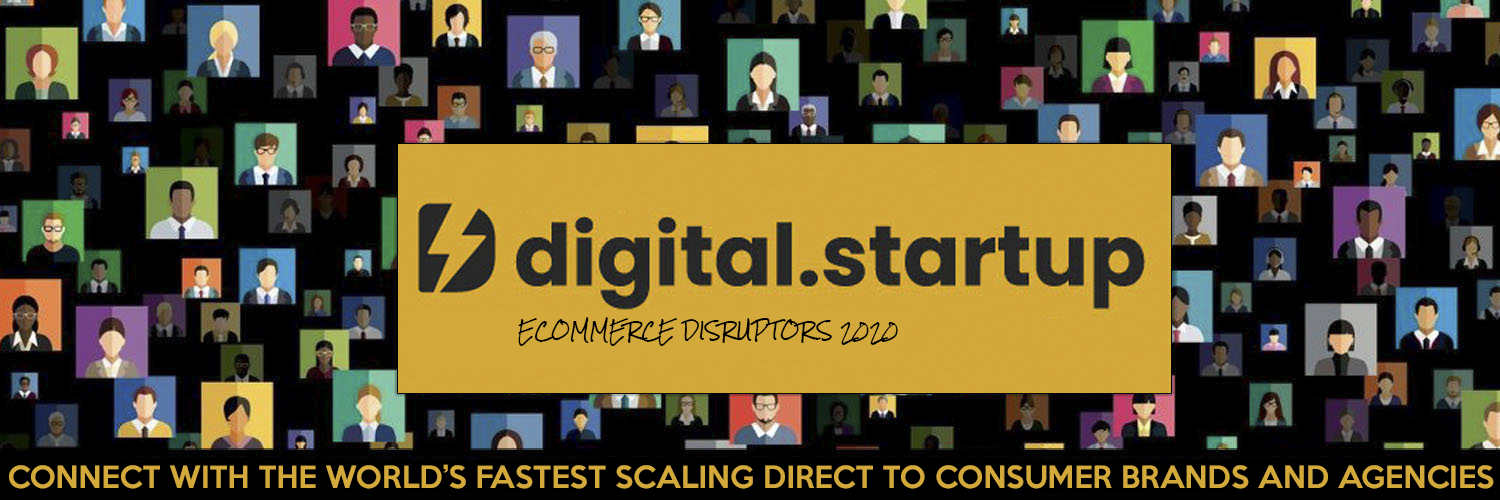
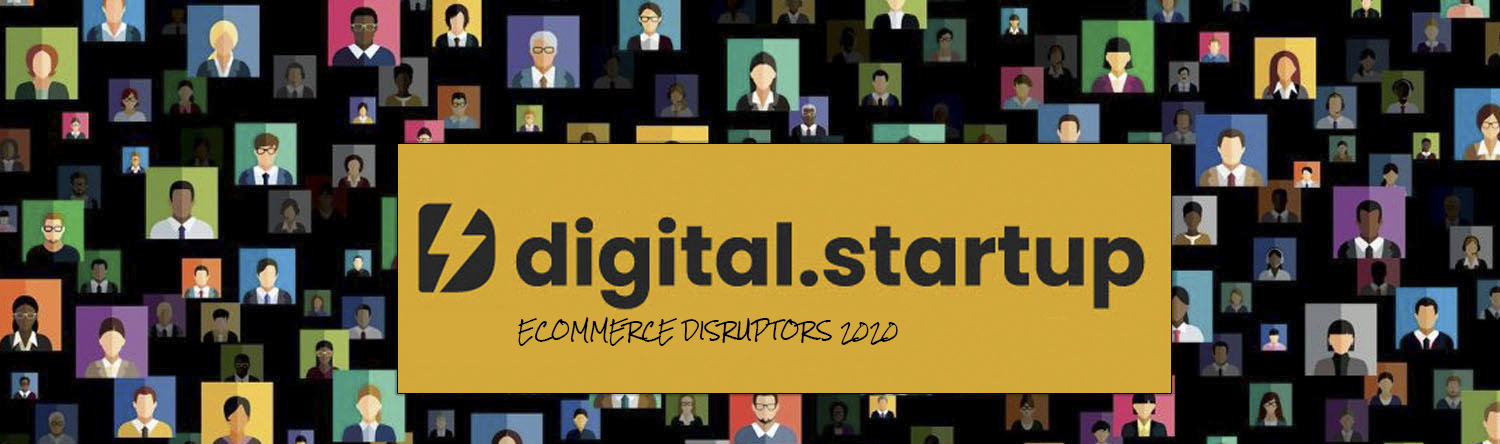
waseem changes

diff --git a/digital-startup.html b/digital-startup.html
@@ -23,7 +23,7 @@
         <nav class="navbar navbar-expand-md navbar-dark fixed-top" id="banner">
             <div class="container max-wd-1380">
                 <!-- Brand -->
-                <a class="navbar-brand logo" href="/"><span><img src="./assets/images/iPhone X-XS-11 Pro – 1@2x.png"
+                <a class="navbar-brand logo" href="/"><span><img src="./assets/images/ds-logo.png"
                             alt="logo"></span></a>
 
                 <!-- Toggler/collapsibe Button -->
@@ -35,26 +35,14 @@
                 <div class="collapse navbar-collapse" id="collapsibleNavbar">
                     <ul class="navbar-nav ml-auto">
                         <li class="nav-item dropdown">
-                            <a class="nav-link dropdown-toggle" href="/why-attend" data-toggle="dropdown">
+                            <a class="nav-link" href="#">
                                 <span class="border-bottom">Schedule</span>
                             </a>
-                            <div class="dropdown-menu">
-                                <a class="dropdown-item" href="/affiliates-media-buyers">Affiliates and Media Buyers</a>
-                                <a class="dropdown-item" href="/product-owner">Product Owner</a>
-                                <a class="dropdown-item" href="/agencies">Agencies</a>
-                                <a class="dropdown-item" href="/executives-enterprises">Executives</a>
-                                <a class="dropdown-item" href="/offline-stores">Offline Stores</a>
-                            </div>
                         </li>
                         <li class="nav-item dropdown">
-                            <a class="nav-link dropdown-toggle" href="#" data-toggle="dropdown">
+                            <a class="nav-link" href="#">
                                 <span class="border-bottom">Speakers</span>
                             </a>
-                            <div class="dropdown-menu">
-                                <a class="dropdown-item" href="#section-3">Overview Speakers</a>
-                                <a class="dropdown-item" href="/become-speaker/apply-for-speaker.php">Apply for
-                                    Speakers</a>
-                            </div>
                         </li>
                         <li class="nav-item">
                             <a class="nav-link" href="/schedule"><span class="border-bottom">Session</span></a>
@@ -75,13 +63,17 @@
         <main>
             <!-- Container (Hero Section)  -->
             <section id="section-1">
-                <div class="container" id="hero_email_form">
-                    <div class="text-white text-center col-md-12" style="transform: translateY(75px);">
+               
+            </section>
+            
+            <section style="background: #000;">
+                <div class="container-fluid" id="hero_email_form">
+                    <div class="text-white text-center col-md-12" >
 
                         <!-- TODO: display none /custom logo box -->
                         <div class="mx-auto dp-n" style="height: auto;padding: 10px;background: #ECBA16;width: 60%;">
                             <span><img class="w-100" src="./assets/images/iPhone X-XS-11 Pro – 1@2x.png"
-                                    alt="logo"></span>
+                                       alt="logo"></span>
 
                             <p class="px-5 mx-auto" style="background-color: white; color: black; width: fit-content">
                                 ECOMMERCE DISRUPTORS 2020
@@ -90,30 +82,30 @@
                         <!-- End display none /custom logo box -->
 
 
-                        <p class="mt-3 mb-2 px-5 py-2 mx-auto font-weight-bold header-description">
-                            “Connect with the World’s Fastest Scaling Direct to Consumer Brands and Agencies”
+                        <p class="mt-0 mb-0 yellow-text w-100 py-2 mx-auto font-weight-bold header-description">
+                            Connect with the World’s Fastest Scaling Direct to Consumer Brands and Agencies
                         </p>
 
                         <div class="timer-section mx-auto px-5">
                             <div class="d-flex justify-content-center" id="timer">
-                                <div class="ml-2">
-                                    <div class="timer-heading">DAYS</div>
+                                <div class="ml-2 timer-box">
                                     <div class="timer-value" id="days">00</div>
+                                    <div class="timer-heading">DAYS</div>
                                 </div>
 
-                                <div class="ml-2">
-                                    <div class="timer-heading">HOURS</div>
+                                <div class="ml-2 timer-box">
                                     <div class="timer-value" id="hours">00</div>
+                                    <div class="timer-heading">HOURS</div>
                                 </div>
 
-                                <div class="ml-2">
-                                    <div class="timer-heading">MINUTES</div>
+                                <div class="ml-2 timer-box">
                                     <div class="timer-value" id="minutes">00</div>
+                                    <div class="timer-heading">MINUTES</div>
                                 </div>
 
-                                <div class="ml-2">
-                                    <div class="timer-heading">SECONDS</div>
+                                <div class="ml-2 timer-box">
                                     <div class="timer-value" id="seconds">00</div>
+                                    <div class="timer-heading">SECONDS</div>
                                 </div>
                             </div>
 
@@ -146,7 +138,7 @@
                     <div class="d-flex justify-content-center pt-2 pb-5 access-now-button">
 
                         <button class="blck-color solid-btn large-btn my-2 rounded px-4" type="submit">
-                            <a href="../partners/become-partner.php" class="mail-link">Get Free AccessNow </a>
+                            <a href="../partners/become-partner.php" class="mail-link">Get Free Access Now </a>
                         </button>
 
                     </div>
@@ -309,7 +301,7 @@
                     <div class="d-flex justify-content-center pt-2 pb-5 access-now-button">
 
                         <button class="blck-color solid-btn large-btn my-2 rounded px-4" type="submit">
-                            <a href="../partners/become-partner.php" class="mail-link">Get Free AccessNow </a>
+                            <a href="../partners/become-partner.php" class="mail-link">Get Free Access Now </a>
                         </button>
 
                     </div>
@@ -337,6 +329,117 @@
                     </p>
                 </div>
 
+
+                <div class="container">
+                    <div class="topics-card-container max-wd-1380">
+                        <div class="row m-0">
+                            <div class="col-6 col-md-3 px-md-3 px-2 pt-4">
+                                <div class="card shadow-border">
+                                    <div class="card-body">
+                                        <h5 class="card-title text-center bold font-weight-bold">Product vision</h5>
+                                        <div class="topic-image mx-auto my-2">
+                                            <img src="./assets/images/topics-icon-ecommerce.png" class="card-img-top"
+                                                 alt="...">
+                                        </div>
+
+                                    </div>
+                                </div>
+                            </div>
+                            <div class="col-6 col-md-3 px-md-3 px-2 pt-4">
+                                <div class="card shadow-border">
+                                    <div class="card-body">
+                                        <h5 class="card-title text-center bold font-weight-bold">Product Sourcing</h5>
+                                        <div class="topic-image mx-auto my-2">
+                                            <img src="./assets/images/topics-icon-traffic.png" class="card-img-top"
+                                                 alt="...">
+                                        </div>
+
+                                    </div>
+                                </div>
+                            </div>
+                            <div class="col-6 col-md-3 px-md-3 px-2 pt-4">
+                                <div class="card shadow-border">
+                                    <div class="card-body">
+                                        <h5 class="card-title text-center bold font-weight-bold">Brand Creation</h5>
+                                        <div class="topic-image mx-auto my-2">
+                                            <img src="./assets/images/topics-icon-list.png" class="card-img-top"
+                                                 alt="...">
+                                        </div>
+
+                                    </div>
+                                </div>
+                            </div>
+                            <div class="col-6 col-md-3 px-md-3 px-2 pt-4">
+                                <div class="card shadow-border ">
+                                    <div class="card-body">
+                                        <h5 class="card-title text-center bold font-weight-bold">Scaled Influencers</h5>
+                                        <div class="topic-image mx-auto my-2">
+                                            <img src="./assets/images/topics-icon-content.png" class="card-img-top"
+                                                 alt="...">
+                                        </div>
+
+                                    </div>
+                                </div>
+                            </div>
+                        </div>
+                    </div>
+                </div>
+
+                <div class="my-5 container">
+                    <div class="topics-card-container max-wd-1380">
+                        <div class="row m-0">
+                            <div class="col-6 col-md-3 px-md-3 px-2 pt-4">
+                                <div class="card shadow-border ">
+                                    <div class="card-body">
+                                        <h5 class="card-title text-center bold font-weight-bold">FB Ads Audiences</h5>
+                                        <div class="topic-image mx-auto my-2">
+                                            <img src="./assets/images/topics-icon-ecommerce.png" class="card-img-top"
+                                                 alt="...">
+                                        </div>
+
+                                    </div>
+                                </div>
+                            </div>
+                            <div class="col-6 col-md-3 px-md-3 px-2 pt-4">
+                                <div class="card shadow-border">
+                                    <div class="card-body">
+                                        <h5 class="card-title text-center bold font-weight-bold">Social Ad Creative</h5>
+                                        <div class="topic-image mx-auto my-2">
+                                            <img src="./assets/images/topics-icon-traffic.png" class="card-img-top"
+                                                 alt="...">
+                                        </div>
+
+                                    </div>
+                                </div>
+                            </div>
+                            <div class="col-6 col-md-3 px-md-3 px-2 pt-4">
+                                <div class="card shadow-border ">
+                                    <div class="card-body">
+                                        <h5 class="card-title text-center bold font-weight-bold">Pre-Sales Content</h5>
+                                        <div class="topic-image mx-auto my-2">
+                                            <img src="./assets/images/topics-icon-list.png" class="card-img-top"
+                                                 alt="...">
+                                        </div>
+
+                                    </div>
+                                </div>
+                            </div>
+                            <div class="col-6 col-md-3 px-md-3 px-2 pt-4">
+                                <div class="card shadow-border">
+                                    <div class="card-body">
+                                        <h5 class="card-title text-center bold font-weight-bold">AOV Maximization</h5>
+                                        <div class="topic-image mx-auto my-2">
+                                            <img src="./assets/images/topics-icon-content.png" class="card-img-top"
+                                                 alt="...">
+                                        </div>
+
+                                    </div>
+                                </div>
+                            </div>
+                        </div>
+                    </div>
+                </div>
+
             </section>
 
             <!-- Container (Content and Platform ) -->
@@ -344,7 +447,7 @@
 
                 <div class="container mx-auto pt-5 site-font">
 
-                    <div class="headings">PLATFORM<span class="yellow-text">.</span></div>
+                    <div class="headings">Platform<span class="yellow-text">.</span></div>
 
                     <p>Our content is focused on the principles of raw, honest conversation. Between fire side chats,
                         round table interviews and focused free-for-alls attendees of Ecommerce Disruptors will get a
@@ -368,7 +471,7 @@
                     <div class="d-flex justify-content-center pt-2 pb-5 access-now-button">
 
                         <button class="blck-color solid-btn large-btn my-2 rounded px-4" type="submit">
-                            <a href="../partners/become-partner.php" class="mail-link">Get Free AccessNow </a>
+                            <a href="../partners/become-partner.php" class="mail-link">Get Free Access  Now </a>
                         </button>
 
                     </div>

diff --git a/assets/css/main.css b/assets/css/main.css
@@ -357,7 +357,7 @@ body {
  }
  
  .topics-card-container {
-     margin-top: -90px;
+     margin-top: -40px;
      /*margin-left: 12%;*/
      /*margin-right: 12%;*/
  }
@@ -369,7 +369,7 @@ body {
  .shadow-border {
      box-shadow: 0px 2px 55px #00000026;
      border: 0px;
-     min-height: 214px;
+
  }
  
  .partners-container {
@@ -401,7 +401,7 @@ body {
  
  .footer {
      border-top: 7px solid #ecba16;
-     background: #141414;
+     background: #252525;
  }
  
  .footer-logo img {
@@ -657,7 +657,7 @@ body {
      right: 0;
      left: 0;
      z-index: 1030;
-     background-color: #000;
+     background-color: #252525;
      min-height: 121px;
  }
  /*@media (min-width:992px) {*/
@@ -685,7 +685,7 @@ body {
  .card-body {
      -ms-flex: 1 1 auto;
      flex: 1 1 auto;
-     min-height: 456px;
+
      padding: 39px 28px;
  }
  
@@ -955,6 +955,15 @@ body {
     font-size: 36px;
 }
 
+.timer-box {
+    padding: 10px;
+    background: white;
+    color: black;
+    width: 120px;
+    border-radius: 5px !important;
+    font-weight: bold;
+}
+
  #section-intro{
     background-color: black;
     color: white;
@@ -985,9 +994,9 @@ body {
  }
 
 .header-description {
-    background-color: white;
-    color: black;
-    width: fit-content;
+    background-color: black;
+    width: 100%;
+    font-size: 30px;
 }
 .site-font{
     font-size: 18px;
@@ -999,4 +1008,20 @@ body {
 }
 .access-now-button img {
     width:45px;
+}
+
+ /* back here */
+@media (max-width:768px) {
+    .timer-section .timer-value {
+        font-size: 36px;
+    }
+
+    .timer-box {
+        padding: 10px;
+        background: white;
+        color: black;
+        width: 120px;
+        border-radius: 5px !important;
+        font-weight: bold;
+    }
 }

diff --git a/assets/css/responsive.css b/assets/css/responsive.css
@@ -118,7 +118,8 @@
 
 @media (max-width: 991px) {
     #section-1{
-        height: 600px;
+        height: 180px;
+        background-position: center;
     }
     .menu-button {
         width: 100% !important;
